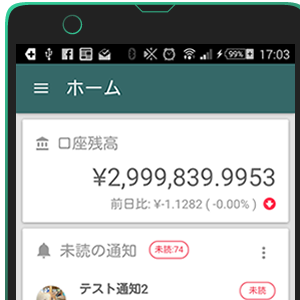
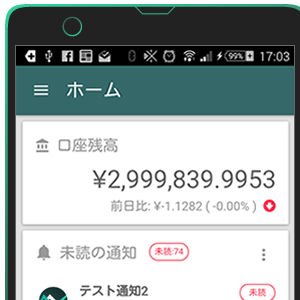
トップ画面のテキストを調整、画像を差し替え

diff --git a/index.html b/index.html
@@ -36,7 +36,7 @@ layout: fullscreen
           <ul>
             <li>自分だけの取引アルゴリズムを、 <b><a href="https://www.ruby-lang.org/ja/">オブジェクト指向プログラミング言語「Ruby」</a></b>で作成。</li>
             <li>添付ライブラリを使って、<b>移動平均やRSIを使ったアルゴリズム</b>をかんたんに作成できます。</li>
-            <li><b>メールやPush通知の送信</b>も可能。</li>
+            <li>取引アルゴリズムからの<b>メールやPush通知の送信</b>も可能。</li>
           </ul>
         </div>
         <div class="box">
@@ -54,7 +54,7 @@ layout: fullscreen
             <li>OANDA Japan の口座で、作成した取引アルゴリズムを実行。
               (発注や決済には<b><a href="http://www.oanda.jp/api/">OANDA FX REST API</a></b>を利用しています)</li>
             <li>取引の状況は、<b>スマホアプリまたはWebUI</b> でいつでもどこでも確認可能。</li>
-            <li>OANDA Japan の<b>無料デモ口座にも対応</b>。まずは気軽にお試しできます。</li>
+            <li>OANDA Japan の<b>無料デモ口座にも対応</b>しています。まずは気軽にお試しできます。</li>
           </ul>
         </div>
       </div>
@@ -77,15 +77,15 @@ layout: fullscreen
         <div class="box">
           <img class="large" src="/images/top/top02_01.png" />
           <ul>
-            <li>取引アルゴリズムが、レートの動きを監視。</li>
-            <li>レートの変化を検知して、Push通知を送信。</li>
+            <li>取引アルゴリズムで、レートの動きを監視。</li>
+            <li>取引のチャンスとなりそうなレートの変化を検知したタイミングで、Push通知を送信。</li>
           </ul>
         </div>
         <div class="box">
           <img class="large" src="/images/top/top02_02.png" />
           <ul>
             <li>Push通知を受け取り、次のアクションを人間が判断。</li>
-            <li>アルゴリズムがコマンドを受け取り、アクションを実行します。</li>
+            <li>取引アルゴリズムにコマンドを送り、トレードや決済などの任意アクションを実行させることができます。</li>
           </ul>
         </div>
       </div>
